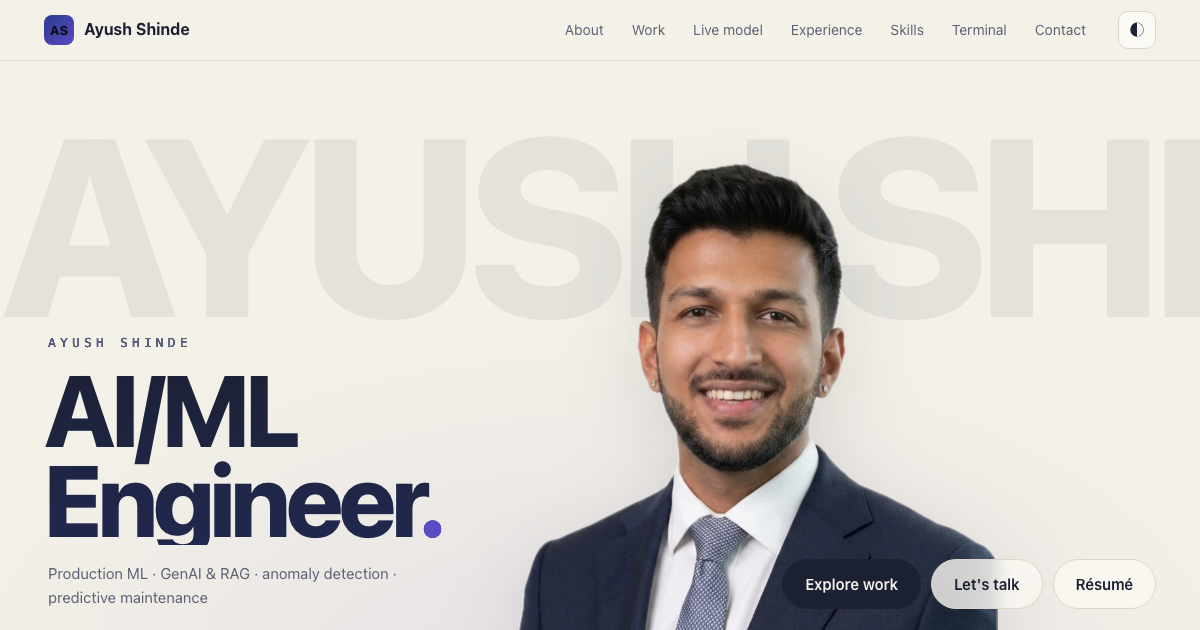
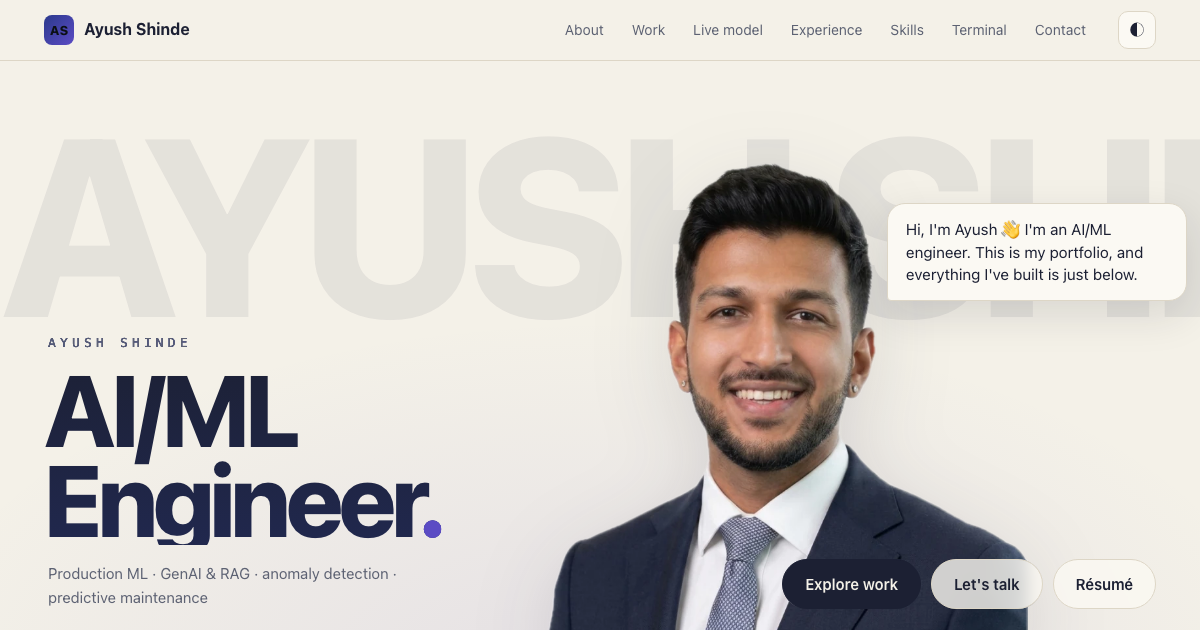
Hero: portrait walks in, breathes, and greets visitors

Changed region(s): [[0.4317, 0.2413, 0.9558, 1.0]]

diff --git a/index.html b/index.html
@@ -86,7 +86,7 @@ h1 span{background:var(--grad);-webkit-background-clip:text;background-clip:text
 @keyframes drift{to{transform:translateX(-50%)}}
 .motion{position:absolute;top:22px;right:24px;z-index:4;width:44px;height:44px;border-radius:50%;border:0;background:var(--text);color:var(--bg);font-size:12px;letter-spacing:-1px;cursor:pointer;box-shadow:0 8px 24px #0002}
 .motion:hover{transform:scale(1.05)}
-.cut{position:absolute;bottom:0;left:63%;transform:translateX(-50%);height:min(78vh,720px);width:auto;z-index:2;filter:drop-shadow(0 20px 40px #1c203322)}
+.cut{position:absolute;bottom:0;left:65.5%;transform:var(--base,translateX(-50%));height:min(78vh,720px);width:auto;z-index:2;filter:drop-shadow(0 20px 40px #1c203322)}
 .hero2-inner{position:absolute;left:0;right:0;bottom:44px;z-index:3;display:flex;justify-content:space-between;align-items:flex-end;gap:24px}
 .title{position:relative;margin:0;font:800 clamp(56px,8.4vw,128px)/.9 var(--sans);letter-spacing:-.045em;background:linear-gradient(180deg,var(--text),color-mix(in srgb,var(--text) 70%,var(--accent)));-webkit-background-clip:text;background-clip:text;color:transparent}
 .title .who{display:block;font:500 13px var(--mono);letter-spacing:.32em;text-transform:uppercase;color:var(--muted);-webkit-text-fill-color:var(--muted);margin:0 0 14px 4px}
@@ -100,11 +100,37 @@ h1 span{background:var(--grad);-webkit-background-clip:text;background-clip:text
   .hero2{min-height:0;display:flex;flex-direction:column;padding-top:28px}
   .bigname{top:40px}
   .bigname span{font-size:34vw}
-  .cut{position:relative;left:auto;transform:none;align-self:center;height:auto;width:min(86vw,440px);margin-top:28px;order:1;-webkit-mask-image:linear-gradient(#000 78%,transparent);mask-image:linear-gradient(#000 78%,transparent)}
+  .cut{position:relative;left:auto;transform:var(--base,none);align-self:center;height:auto;width:min(86vw,440px);margin-top:28px;order:1;-webkit-mask-image:linear-gradient(#000 78%,transparent);mask-image:linear-gradient(#000 78%,transparent)}
   .hero2-inner{position:relative;bottom:auto;flex-direction:column;align-items:flex-start;order:2;padding-top:6px;padding-bottom:34px;margin-top:0}
   .h-right{justify-content:flex-start;max-width:none}
   .motion{top:14px;right:16px;width:38px;height:38px}
 }
+
+/* portrait comes alive: walks forward, breathes, says hello */
+.cut{--base:translateX(-50%);transform-origin:50% 100%;animation:walkin 1.9s cubic-bezier(.2,.7,.2,1) both,breathe 6s ease-in-out 2.1s infinite}
+@keyframes walkin{
+  0%{opacity:0;transform:var(--base) translateY(36px) scale(.82)}
+  18%{opacity:1;transform:var(--base) translateY(10px) scale(.86)}
+  32%{transform:var(--base) translateY(22px) scale(.9)}
+  48%{transform:var(--base) translateY(4px) scale(.94)}
+  64%{transform:var(--base) translateY(14px) scale(.97)}
+  80%{transform:var(--base) translateY(2px) scale(.995)}
+  100%{opacity:1;transform:var(--base) translateY(0) scale(1)}}
+@keyframes breathe{50%{transform:var(--base) translateY(-2px) scale(1.006)}}
+.hero2.calm .cut{animation:none}
+.say{position:absolute;z-index:4;left:calc(65.5% + min(16vh,160px));top:24%;max-width:300px;padding:14px 18px;border-radius:18px 18px 18px 4px;background:var(--panel);border:1px solid var(--line);
+  box-shadow:0 14px 40px #1c203320;font-size:15.5px;line-height:1.45;color:var(--text);opacity:0;transform:translateY(8px) scale(.96);transition:opacity .4s,transform .4s}
+.say.on{opacity:1;transform:none}
+.say .caret{display:inline-block;width:2px;height:1em;background:var(--accent2);margin-left:2px;vertical-align:-2px;animation:blink 1s steps(1) infinite}
+.say.done .caret{display:none}
+@keyframes blink{50%{opacity:0}}
+@media(max-width:1100px){.say{left:auto;right:3%;top:16%;max-width:250px;font-size:14.5px}}
+@media(max-width:900px){
+  .cut{--base:none}
+  .say{position:relative;order:1;align-self:center;left:auto;right:auto;top:auto;margin:-6px 20px 0;max-width:340px;border-radius:18px 18px 4px 18px}
+}
+@media(prefers-reduced-motion:reduce){.cut{animation:none}.say{transition:none}.say .caret{animation:none}}
+
 /* about band */
 .intro{padding:72px 0 64px;border-top:1px solid var(--line)}
 .intro-grid{display:grid;grid-template-columns:1fr 1fr;gap:40px;align-items:start;margin-bottom:40px}
@@ -281,6 +307,7 @@ footer{padding:30px 0 50px;color:var(--muted);font-size:13.5px;text-align:center
   <div class="bigname" id="bigname" aria-hidden="true"><div class="track"><span>AYUSH SHINDE&nbsp;</span><span>AYUSH SHINDE&nbsp;</span></div></div>
   <button class="motion" id="motion" aria-label="Pause background animation" title="Pause animation">❚❚</button>
   <img class="cut" src="assets/ayush-cutout.webp" width="740" height="751" alt="Ayush Shinde" fetchpriority="high">
+  <div class="say" id="say" role="status" aria-live="polite"><span id="sayText"></span><span class="caret" aria-hidden="true"></span></div>
   <div class="wrap hero2-inner">
     <div class="h-left">
       <h1 class="title"><span class="who">Ayush Shinde</span>AI/ML<br>Engineer<span class="dot">.</span></h1>
@@ -606,10 +633,26 @@ addEventListener("scroll", () => {
 /* ---------- hero: drifting name with a pause control ---------- */
 (function(){
   const bn = $("#bigname"), mb = $("#motion");
-  const set = paused => { bn.classList.toggle("paused", paused); mb.textContent = paused ? "▶" : "❚❚";
+  const set = paused => { bn.classList.toggle("paused", paused); $(".hero2").classList.toggle("calm", paused); mb.textContent = paused ? "▶" : "❚❚";
     mb.setAttribute("aria-label", paused ? "Play background animation" : "Pause background animation"); };
   if(reduced || location.search.includes("still")){ set(true); mb.hidden = true; }
   mb.onclick = () => set(!bn.classList.contains("paused"));
+})();
+
+
+/* ---------- hero: the portrait says hello ---------- */
+(function(){
+  const box = $("#say"), out = $("#sayText");
+  const line = "Hi, I'm Ayush 👋 I'm an AI/ML engineer. This is my portfolio, and everything I've built is just below.";
+  const still = reduced || location.search.includes("still");
+  const start = () => {
+    box.classList.add("on");
+    if(still){ out.textContent = line; box.classList.add("done"); return; }
+    let i = 0; const chars = [...line];
+    const step = () => { out.textContent = chars.slice(0, ++i).join(""); if(i < chars.length) setTimeout(step, chars[i-1]==="." ? 260 : 32); else box.classList.add("done"); };
+    step();
+  };
+  setTimeout(start, still ? 0 : 1900);
 })();
 
 /* ---------- live model: replay real model output ---------- */
